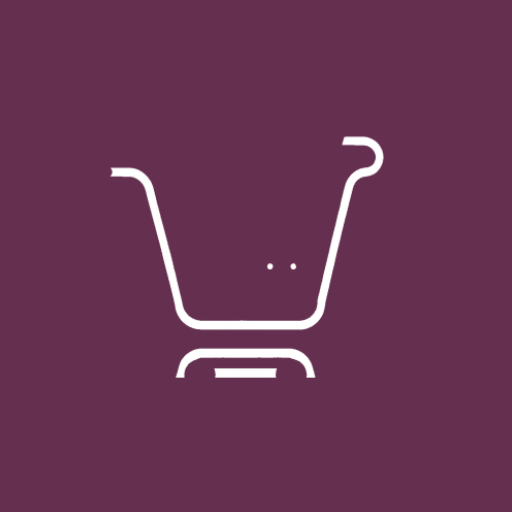
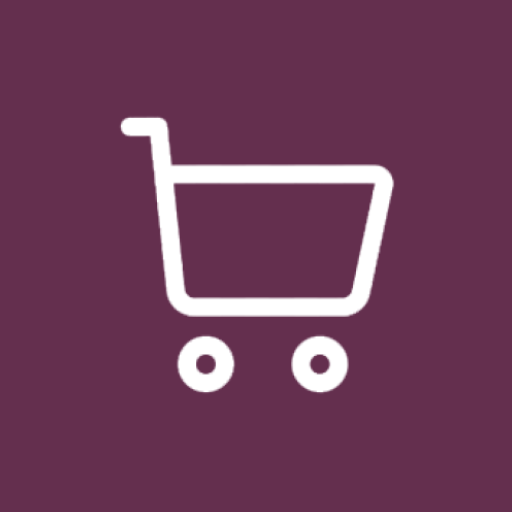
mudança de icone do app e img de login

Changed region(s): [[0.2188, 0.2188, 0.7812, 0.7812], [0.5625, 0.5, 0.5938, 0.5312], [0.5, 0.5, 0.5312, 0.5312]]

diff --git a/app/src/main/java/com/example/avparcial/AdapterListas.kt b/app/src/main/java/com/example/avparcial/AdapterListas.kt
@@ -34,6 +34,7 @@ class AdapterListas (
             Glide.with(binding.root.context)
                 .load(item.imagemUrl)
                 .centerCrop()
+                .placeholder(R.mipmap.placeholder_food_foreground)
                 .into(binding.imageList)
         }
 

diff --git a/app/src/main/java/com/example/avparcial/CriarLista.kt b/app/src/main/java/com/example/avparcial/CriarLista.kt
@@ -115,6 +115,7 @@ class CriarLista : AppCompatActivity() {
         Glide.with(this)
             .load(image)
             .centerCrop()
+            .placeholder(R.mipmap.placeholder_food_foreground)
             .into(binding.imagemLista)
     }
 
